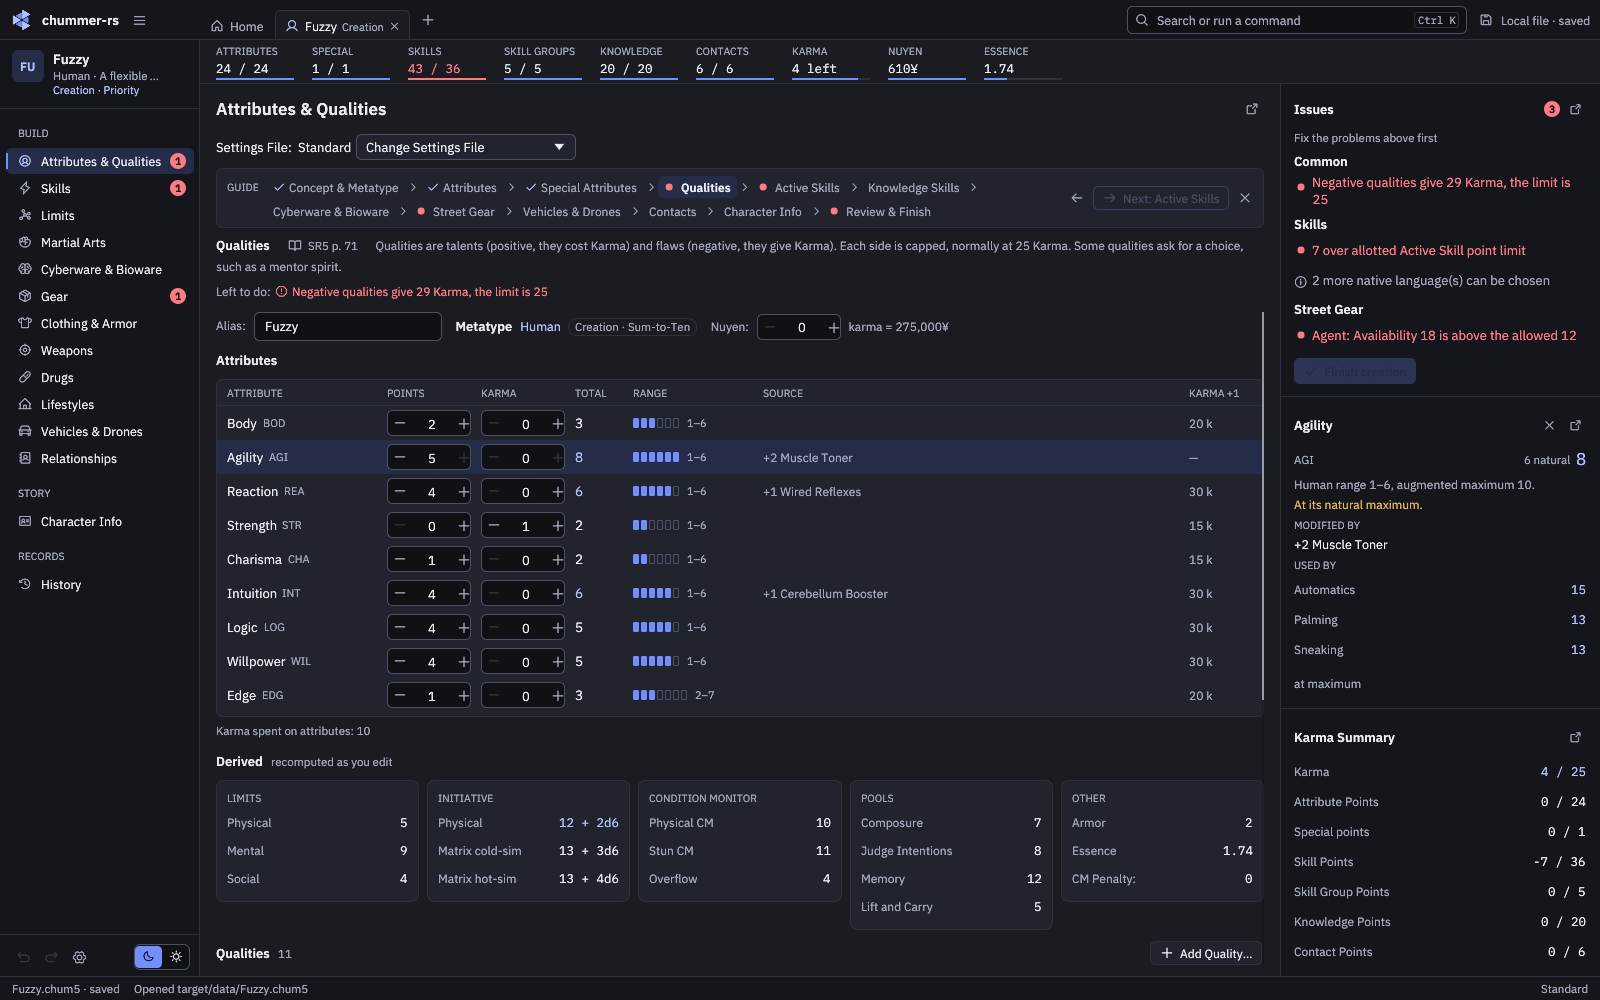
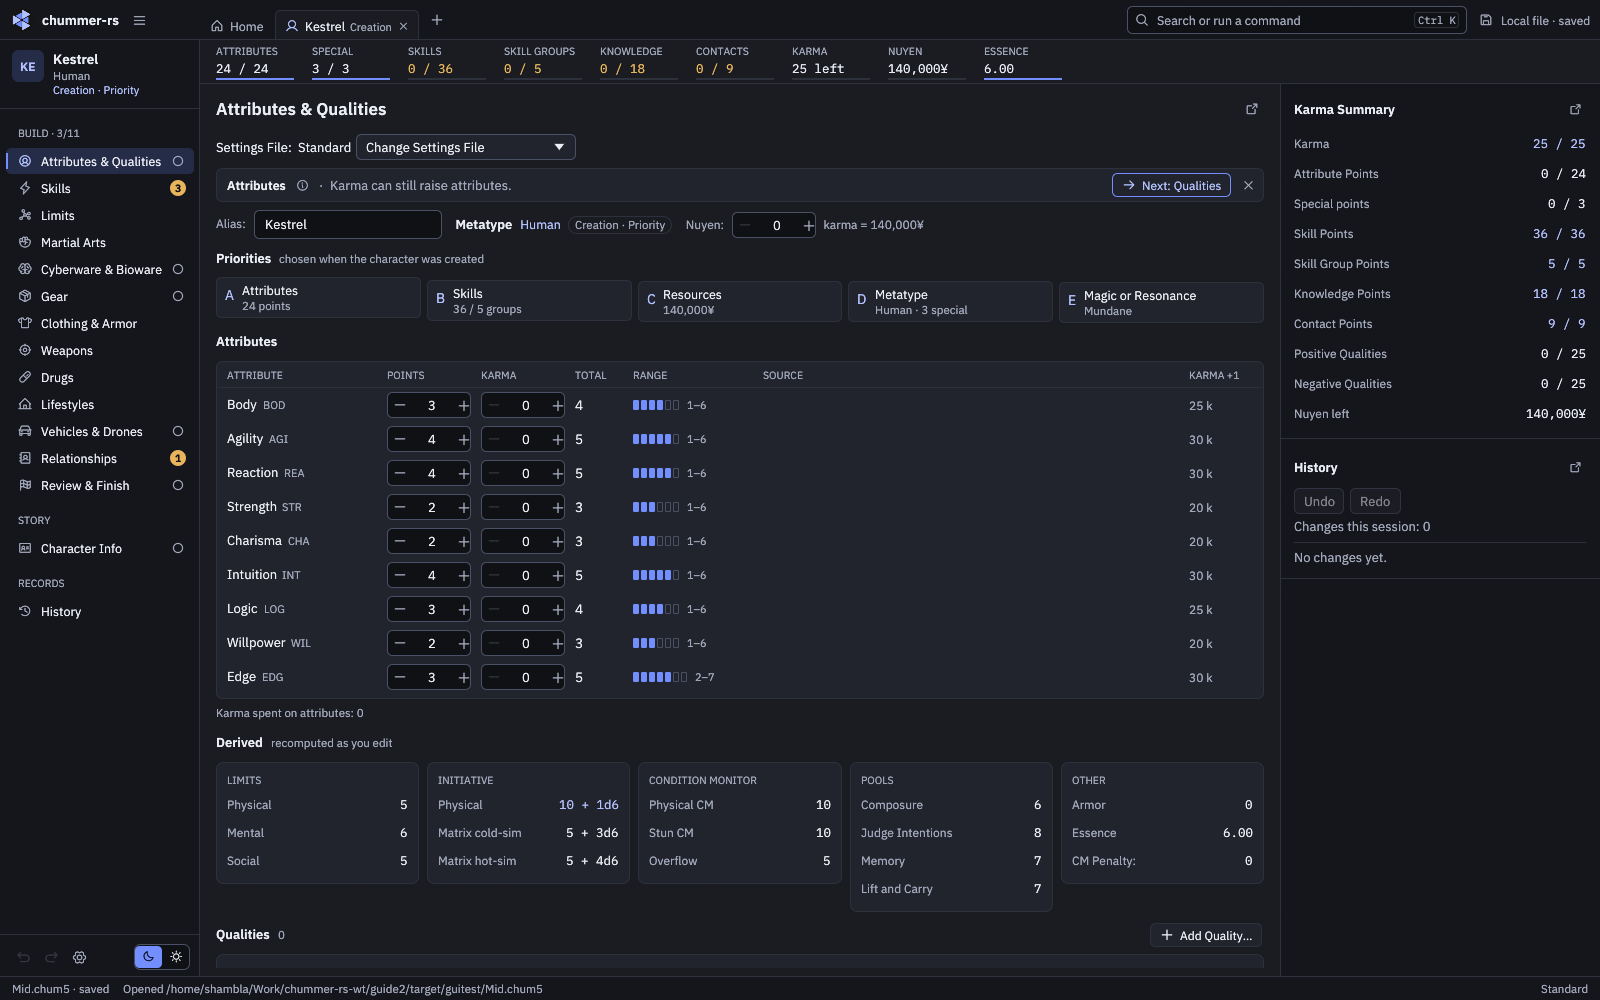
Workspace screenshot without the old guide row; doc wording

diff --git a/crates/chummer-gui/src/view.rs b/crates/chummer-gui/src/view.rs
@@ -135,7 +135,7 @@ pub struct CharacterView {
     budget: Option<chargen::Budget>,
     /// Creation issues (`chargen::issues`), recomputed with the budget.
     issues: Vec<chargen::issues::Issue>,
-    /// Issue panels closed until their issues change.
+    /// Issue hint lines closed until their issues change.
     dismissed: issues_ui::Dismissed,
     /// Guided creation, when on.
     guide: Option<guide_ui::Guide>,
